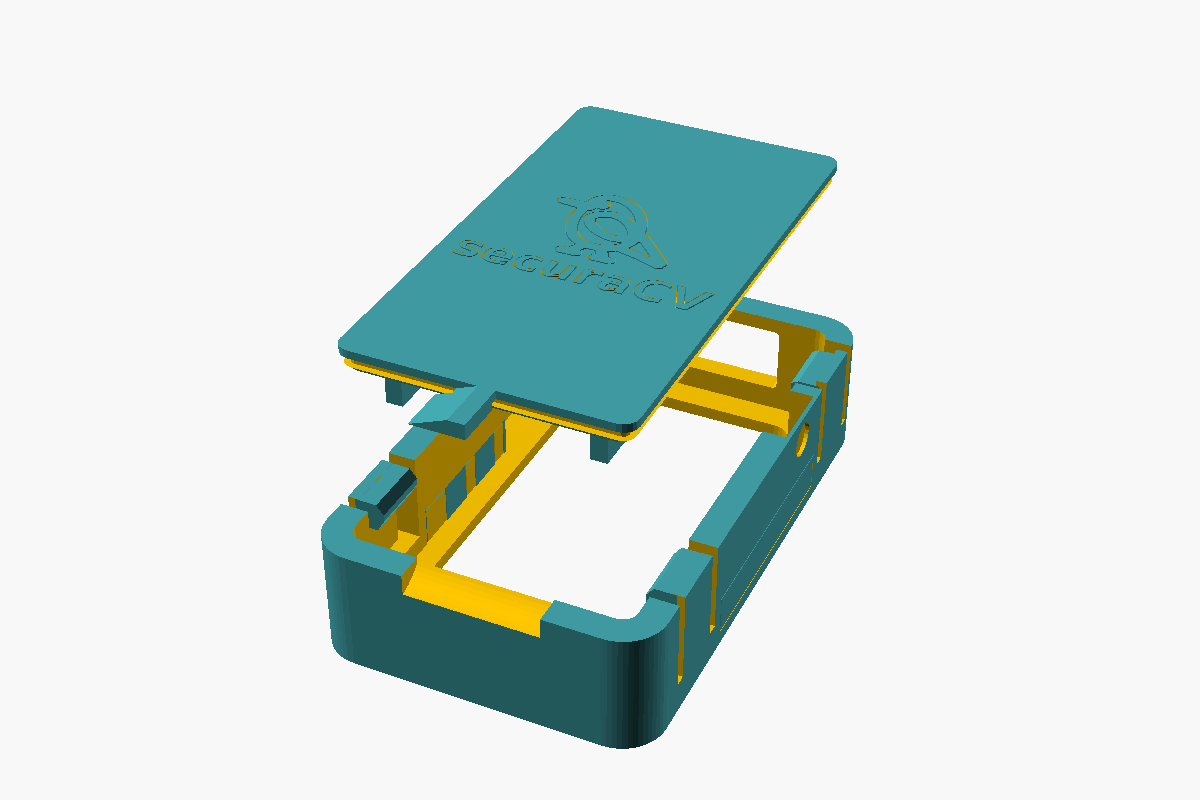
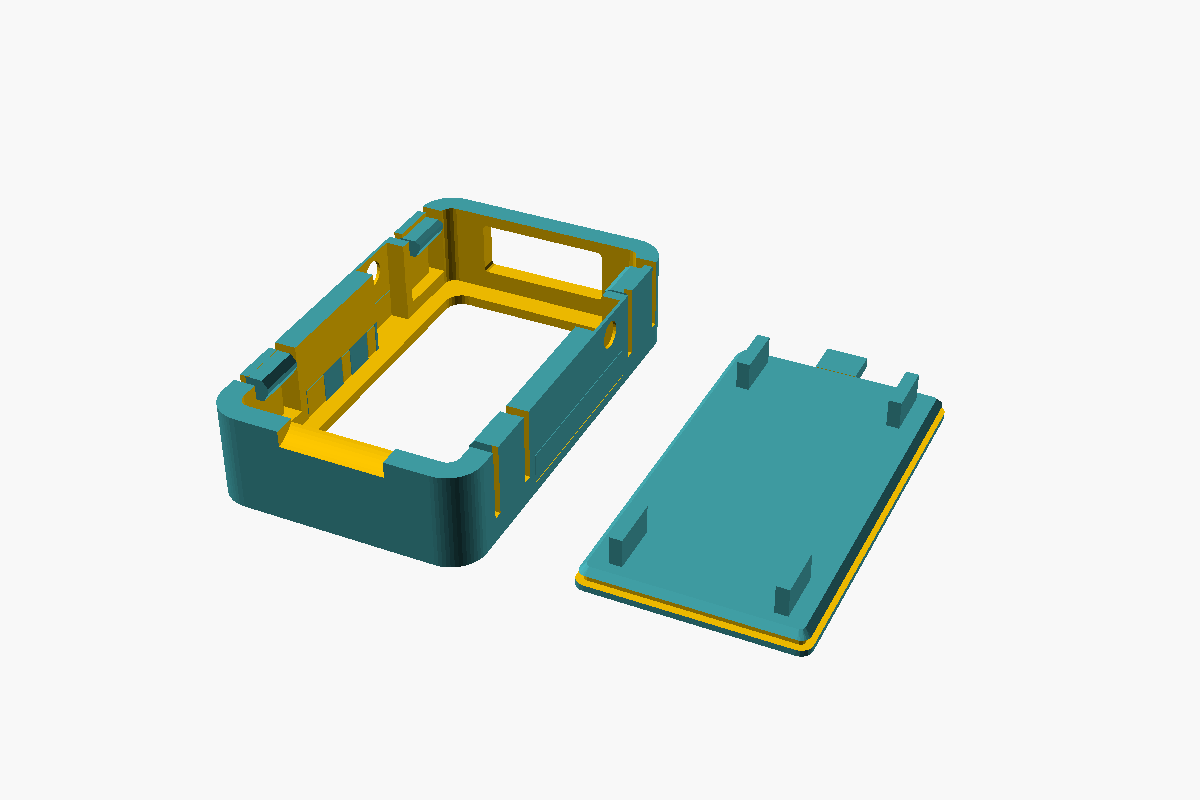
feat(enclosure): the USB-A stick gets the headers axis the C3 already had
The board Waveshare sell bare is the board people solder headers onto —
their own page leads with "expansion of multiple peripherals via GPIO
header", and the outline drawing shows 2.54 mm rows down both long edges.
Nothing in this file knew that: one build, cavity sized to a measured 8.2 mm
bare stack, and a soldered board simply would not close.

So headers = "none" | "male", the same axis and the same doctrine the C3
sibling carries. The plug end does NOT move, which is what makes this cheap
here: headers add depth BEHIND the PCB, and USB-A insertion length is
measured along the board's long axis, so usb_free and the drop collar are
untouched. Bezel 9.200 -> 15.050, footprint unchanged.

stack_eff uses max(back_stack, hdr_drop) rather than a swap, so a hdr_drop
mis-measured shallow can only make the case as tight as the bare one, never
tighter than the hardware.

THREE GATES, because this axis moves things that do not look related:

  - a "male" build no deeper than the bare one is a define that did nothing,
    and it renders perfectly clean;
  - the compliant PCB ribs land on the same long edges the pin rows run
    down. At this file's hdr_inset default they clear by 0.20 mm; at the
    OTHER candidate the C3 file still lists unresolved (2.00) they overlap
    by 0.20. Which is real is unmeasured, so it is an assert;
  - the ribs are columns now, not bumps — 3.0 mm becomes 8.55 — so their
    slenderness is bounded. (The preload gets GENTLER, not harsher: a rib
[…]

Changed region(s): [[0.1542, 0.125, 0.8017, 0.9375]]

diff --git a/docs/hardware/enclosure/gen_3mf.py b/docs/hardware/enclosure/gen_3mf.py
@@ -144,10 +144,22 @@ REQUIRE_ALL = {"QR coupon", "c3 lid", "c3 male lid"}
 # than its own pocket in every direction and leave the AMS to bridge a gap
 # that should not exist. At 0 the band exactly fills the slot it was cut from
 # and fuses to the walls, which is what an AMS is for.
-STICK_BEZEL = [("body", "bezel", 1, STICK, {}),
-               ("band", "fil_light", 3, STICK, {"band_clear": "0"})]
-STICK_BACK = [("body", "fil_body", 1, STICK, {}),
-              ("mark", "fil_accent", 2, STICK, {})]
+#
+# headers is PINNED on every volume, the same doctrine the C3 plates already
+# follow: this board is sold bare but advertises GPIO expansion, so a soldered
+# row is a build somebody really has, and the two cases differ by 5.85 mm of
+# depth (bezel 9.200 -> 15.050). A plate that inherited the default would fit
+# exactly one of them and never say which.
+STICK_BEZEL = [("body", "bezel", 1, STICK, {"headers": '"none"'}),
+               ("band", "fil_light", 3, STICK, {"headers": '"none"',
+                                                "band_clear": "0"})]
+STICK_BACK = [("body", "fil_body", 1, STICK, {"headers": '"none"'}),
+              ("mark", "fil_accent", 2, STICK, {"headers": '"none"'})]
+STICKM_BEZEL = [("body", "bezel", 1, STICK, {"headers": '"male"'}),
+                ("band", "fil_light", 3, STICK, {"headers": '"male"',
+                                                 "band_clear": "0"})]
+STICKM_BACK = [("body", "fil_body", 1, STICK, {"headers": '"male"'}),
+               ("mark", "fil_accent", 2, STICK, {"headers": '"male"'})]
 
 # ── The C3 pocket case (Waveshare ESP32-C3-LCD-1.47) ───────────────────────
 # Same ROLE convention as the stick — slot 1 body, slot 2 mark, slot 3 light
@@ -249,6 +261,11 @@ SETS = {
     # tower twice for no reason.
     "stick": [("stick bezel", STICK_BEZEL, (100, 150)),
               ("stick back",  STICK_BACK,  (100, 95))],
+    # …and the same stick for a board with its GPIO rows soldered on. Deeper
+    # by 5.85 mm, identical footprint, so the layout and the tower zone carry
+    # over — see the note on the volumes above for why it is its own plate.
+    "stick-male": [("stick male bezel", STICKM_BEZEL, (100, 150)),
+                   ("stick male back",  STICKM_BACK,  (100, 95))],
     # Both halves of the C3 case on one plate, same argument as the stick:
     # 25 x 41 mm parts, the pair is light, and a second job would build the
     # purge tower twice for no reason.
@@ -314,6 +331,7 @@ SETS = {
 OUTPUT = {"gauges": "lcd7_gauges", "color": "lcd7_color",
           "coupon": "lcd7_coupon", "qr": "lcd7_qr", "frame": "lcd7_frame",
           "stick": "stick_case", "c3": "c3_case", "tpu": "lcd7_tpu",
+          "stick-male": "stick_male_case",
           "c3-bezel": "c3_bezel", "c3-lid": "c3_lid",
           # "male" is in the FILENAME, not only in the set name: these land in
           # a downloads folder next to the pillars plates, and a name that did
@@ -363,6 +381,7 @@ TOWER_ZONES = {
     # purges far more plastic than the part itself weighs, and cramping it is
     # the one way to make a 20 g print fail.
     "stick":  (140.0, 40.0, 250.0, 210.0),
+    "stick-male": (140.0, 40.0, 250.0, 210.0),
     # Same layout as the stick's plate, same reasoning: both objects sit left
     # of x ≈ 115, so the tower gets the whole right half of the bed.
     "c3":     (140.0, 40.0, 250.0, 210.0),

diff --git a/docs/hardware/enclosure/README.md b/docs/hardware/enclosure/README.md
@@ -155,7 +155,7 @@ measurements welcome.
 | **Witness signage plate** — "presence sensing in use / no video stored", debossed, 3 parametric lines | check local signage rules | <img src="./preview_dev_sign.png" width="230"> | [`canary_sign.scad`](./canary_sign.scad) |
 | **Field case** — bag-carry rugged witness at the honest top of the FDM ceiling: Ø1.5 O-ring cord (27 % squeeze), six-lobe clamp, zero external ports (open to charge), bonded PC lens disc behind a contrast-color trim bezel, ePTFE vent, 4 mm walls, TPU impact boot + lanyard. CER‑4 intent: IP67 + MIL‑STD‑810H transit drop — [earn the rating, don't assume it](./field_ratings.md) | 72 × 39 × 21 body; boot on ≈ 94 wide | <img src="./preview_dev_field.png" width="230"> | [`canary_field_case.scad`](./canary_field_case.scad) |
 | **Dashboard display case** — Waveshare ESP32-S3-Touch-LCD-4.3 (the [display research](../display_research.md) step-up dashboard): face-down bezel frame, vented screw-on back that **clicks onto a wall cradle** ([`canary_cradle_lib.scad`](./canary_cradle_lib.scad) — two rigid T-studs carry it, two sprung clips hold the bottom, pull it off for service), free-standing 25° desk cradle. v0.2 retires the old back pattern: a 75 mm M4 pair on one centerline crossed with two keyholes on the other made an X of four holes and two fastener systems, which the dock replaces with one plate and two screws. Panel dims are NOMINAL — measure yours | glass drops in, bezel lip 2.5 | <img src="./preview_dev_dash.png" width="230"> | [`canary_dash_display.scad`](./canary_dash_display.scad) |
-| **S3 hallway stick case** — Waveshare **ESP32-S3-LCD-1.47** (the USB-A STICK, not the C6 header board). The hallway nightlight body: plugs into a wall adapter, the 172x320 glass faces the corridor, and the WS2812 leaves through a **lit white seam** down both long walls. Screwless — four cantilever beams cut into the bezel wall, sized by strain (ε printed at render, PETG budget 1.8%), with ASYMMETRIC return angles: steep at the plug end so it never lets go, shallow at the far end so a thumb pops it for the microSD. The plug end is the whole design problem: the opening is a RECTANGLE (series-A is not a stadium — that is USB-C), the wall is thin and relieved so a recessed receptacle clears it, an assert fails the render if under 11 mm of insertion length survives, and the drop buttress reaches INWARD (outward would eat the very length it protects). The RGB does **not** fire backwards — Waveshare's "clear acrylic sandwich panel" is the tell, the LED glows out the edge gap between the LCD module and the PCB — so the light gets a **seam** along the side walls at exactly that band rather than a hole in the back, which frees the back for the mark. The seam is filled with **unfilled white PETG**, a light pipe rather than a slot, and its x span is derived from the cavity face and asserted: the first version stopped 0.65 mm short and would have shipped a light pipe with no light in it. The side elevation reads 1 mm black / 3 mm white / black. Ties are hidden ribs in the inner 1.2 mm of the wall, so the white line is unbroken and each side presses in as ONE strip. No vents — the case is 8.2 mm of measured stack in a 9.2 mm shell, and the thumb scoop to the USB opening is the airway. Black PETG, yellow mark, white band | screwless snap, thumb-release, 3 filaments, `gen_3mf.py stick` | <img src="./preview_dev_s3_147.png" width="230"> | [`canary_s3_lcd147.scad`](./canary_s3_lcd147.scad) |
+| **S3 hallway stick case** — Waveshare **ESP32-S3-LCD-1.47** (the USB-A STICK, not the C6 header board). The hallway nightlight body: plugs into a wall adapter, the 172x320 glass faces the corridor, and the WS2812 leaves through a **lit white seam** down both long walls. Screwless — four cantilever beams cut into the bezel wall, sized by strain (ε printed at render, PETG budget 1.8%), with ASYMMETRIC return angles: steep at the plug end so it never lets go, shallow at the far end so a thumb pops it for the microSD. The plug end is the whole design problem: the opening is a RECTANGLE (series-A is not a stadium — that is USB-C), the wall is thin and relieved so a recessed receptacle clears it, an assert fails the render if under 11 mm of insertion length survives, and the drop buttress reaches INWARD (outward would eat the very length it protects). The RGB does **not** fire backwards — Waveshare's "clear acrylic sandwich panel" is the tell, the LED glows out the edge gap between the LCD module and the PCB — so the light gets a **seam** along the side walls at exactly that band rather than a hole in the back, which frees the back for the mark. The seam is filled with **unfilled white PETG**, a light pipe rather than a slot, and its x span is derived from the cavity face and asserted: the first version stopped 0.65 mm short and would have shipped a light pipe with no light in it. The side elevation reads 1 mm black / 3 mm white / black. Ties are hidden ribs in the inner 1.2 mm of the wall, so the white line is unbroken and each side presses in as ONE strip. No vents — the case is 8.2 mm of measured stack in a 9.2 mm shell, and the thumb scoop to the USB opening is the airway. Black PETG, yellow mark, white band. **Two board builds** since the board is sold bare but advertises GPIO expansion: `headers="none"` and `headers="male"` (the 2.54 mm rows soldered pointing down). The plug end does not move — headers add depth *behind* the PCB, so the insertion length and the drop collar are untouched and the case simply gets 5.85 mm deeper (bezel 9.200 → 15.050). What the axis does turn on is the compliant PCB ribs: they land on the same long edges the pin rows run down, and at the unmeasured `hdr_inset` candidates they clear by 0.20 mm or overlap by 0.20, so that arithmetic is an assert rather than a comment | screwless snap, thumb-release, 3 filaments, 2 board builds, `gen_3mf.py stick` / `stick-male` | <img src="./preview_dev_s3_147.png" width="230"> | [`canary_s3_lcd147.scad`](./canary_s3_lcd147.scad) |
 | **C6 display pocket case** — Waveshare **ESP32-C6-LCD-1.47** (portrait), both board builds: `headers="none"` (stripped: no headers, corner pillars removed) or `headers="male"` (as shipped: down-facing pin headers + brass M2 corner pillars — deeper cavity, press bosses land on the pillar tops). Face-down bezel over the active-area window, edge-captured board (no screws into the board), snap-in vented back, blind keyhole. The overhanging BOOT/RST buttons and the USB-C shell (both BACK-mounted — photo-verified) get full-depth insertion channels behind "ear"/"chin" wall bulges, and the USB-C port is a true stadium (full-round ends) sized shell + tolerance. `model="1.47"` is drawn from the Waveshare mechanical drawing; a `"1.69"` preset is parameterised. The bezel face prints **flat on the plate** — the same untapered "edge chamfer" the C3 sibling carried, drawing the same 0.80 mm square rabbet around the first-layer perimeter, is gone here too (390.33 mm² of bed contact where flat gives 493.69), and [`check_foot_relief.py`](./check_foot_relief.py) is what keeps it gone. Heat-escape slots on the sides + a back grille | snap-fit, vented, 2 board builds | <img src="./preview_dev_c6_147.png" width="230"> | [`canary_c6_display.scad`](./canary_c6_display.scad) |
 | **C3 pocket display case** — Waveshare **ESP32-C3-LCD-1.47** (portrait; the C6 sibling's exact outline + panel, plus a TF slot and an RGB LED), three board builds: `headers="pillars"` (the board **as Waveshare ships it** — brass corner pillars on, headers not soldered; the press bosses span the measured 2.8 mm to land on the flat pillar tops and hold the board against the bezel, and the lid skirt is notched around each pillar), `"none"` (stripped, pillars unscrewed — the shallowest case), or `"male"` (down-facing headers + pillars — deepest, thin skirt clear of the pin rows). Three PETG spools, and the **slots are roles**: slot 1 body = **YELLOW** (bezel and lid both), slot 2 mark = **BLACK**, slot 3 light = **WHITE**. The white does the job of Waveshare's clear-acrylic sandwich: measured off the hardware at 1 mm behind the glass front, 2.8 mm tall, and it is **ONE continuous U** — up both long walls, around both far corners, across the LED's end wall — white through the full wall depth with no ties crossing it. Both earlier cuts are lessons kept: outer-skin webs chop the strip into dashes, inboard ribs put black slats in the light path, and a strip that stops short of the corners goes dark exactly where it turns. The black is the **branding**: the lid's back carries the "Canary" wordmark, debossed and filled at zero clearance so the AMS fuses it. The wordmark alone, not the bird — [`canary_mark_lib.scad`](./canary_mark_lib.scad) states a ~30 mm minimum for the mark's interior detail and this lid is 25.12 mm across. It carries the mark **and** the wall hanger (`lid_back`): the plate is 41 mm tall and the wordmark takes four of them, so the hanger sits high and the word reads below it. The hanger is an **egg** — [`canary_vent_lib.scad`](./canary_vent_lib.scad)'s house ovoid, mounted upright (wide base down, crown up). A round keyhole admits exactly one head size and a real wall screw did not fit the old Ø7 one; an egg tapers continuously, so one opening takes a range of heads — offer the head into the base, let the case drop, and the flank carries the screw to the crown, which is sized to the shank and will not give the head back. The through cut is asserted clear of the press bosses and the skirt's snap band. The glass is **located, not clamped**: bosses cut to the exact component stack (no preload), and the face touches the panel only on a land over the module border — the innermost 0.5 mm of lip is relieved 0.25 so the window rim never puts a contact line on the glass edge. BOOT/RST are **printed-in-place flexure paddles**: a press pad cut free by a 0.55 mm slot on three sides, hinged at its USB end, a boss on its back over the actuator — press it with a fingertip, no tool, nothing internal exposed, and the pad sits recessed so a pocket squeeze lands on the ear rim instead. USB-C is a true stadium hugging the shell at ~0.05 mm per side with a **chamfered** rim for the plug's overmold (the recessed ring it replaced left a 0.4 mm floor over the insertion slot and broke out on the first print). The front face itself prints **flat on the plate**, with no modeled foot relief: the "face edge chamfer" this file used to carry was an untapered cut, so what it drew was a 0.80 mm square **rabbet** around the whole first-layer perimeter — an overhang, on the one surface a person looks at, giving up a fifth of the face plate's bed contact (403.62 mm² where flat gives 508.15) to duplicate a ~0.2 mm elephant-foot compensation the slicer already applies. [`check_foot_relief.py`](./check_foot_relief.py) measures every exported mesh and fails the build if a stepped foot comes back; a real taper still passes. **Keyed lid**: the board's M2 pillar pattern is asymmetric, so offered the wrong way round the skirt lands on the USB shell and refuses to close — the error is physical, not a rattle you discover later. Asymmetric snap nubs give it a real click. microSD swaps with the lid off (the slot mouth faces down-board; no wall window could pass a card). **Two plates, not one with a flag**: `gen_3mf.py c3` cuts the case for the board as Waveshare ships it, `gen_3mf.py c3-male` cuts it for a board with the headers soldered on — 3.00 mm deeper in the bezel (12.25 → 15.25) with press bosses 3.00 mm longer (4.80 → 7.80) and a thin skirt clear of the pin rows, same outline. They are not interchangeable on a finished print, so the board they were cut for is in the filename; `-bezel` / `-lid` suffixes split either one when you are iterating on one half | 3 filaments, snap lid, keyed, 3 board builds, `gen_3mf.py c3` / `c3-male` | <img src="./preview_dev_c3_147.png" width="230"> | [`canary_c3_lcd147.scad`](./canary_c3_lcd147.scad) |
 | **7″ touch dashboard case** — Waveshare **ESP32-S3-Touch-LCD-7** (7″ 800×480 capacitive touch): the wall/desk slab. Face-down bezel retains the bonded glass over the active-area window; deep vented rear tray carries the PCB on molded M3 standoffs and screws to four **gusseted** outboard M3 corner ears (webbed into the shell — no thin necks). Real convection path (**bottom-wall intake → top-wall exhaust** — print in PETG/ASA, this panel runs hot; the two-part tray adds a ~41 cm² back grille, and the one-piece `frame`'s plate deliberately carries none — see the back-plate section), bottom connector channel + side USB/CAN/RS485/battery slots on the tray. The one-piece `frame` adds a bottom-centered **USB pass-through** plus a matching **side exit** on the microSD's wall (hang the case portrait with that wall down and the cable leaves out the bottom; the leashed blank fills whichever exit is idle) and three **TPU fitments**: a slit wire grommet (strain relief — tugs load the frame, not the board), a captive leashed press-through BOOT/RESET plug whose press towers reach the button caps at the board edge, and a peel-open SD cover that stays attached. Optional 20° desk **dock** for the frame (drop-in slot on tilted seat pads, self-centering keys into the frame's keying slots, landscape **and** portrait — portrait seats on well ribs — open well under the USB port + desk-level cable channel for the power lead, vented back fin, tip-checked both ways — `stand_gauge` proves the slot before the big print). **Print the `gauge` corner pair first** (~16.5 g vs ~158 g) — see the [P2S bring-up](./bambu_p2s_bringup.md#7--print-3--the-7-dashboard). Connector centers and `pcb_h` are NOMINAL — measure yours | glass drops in, lip 10.4, TPU-fitted ports | <img src="./preview_dev_lcd7.png" width="230"> | [`canary_s3_lcd7.scad`](./canary_s3_lcd7.scad) |
